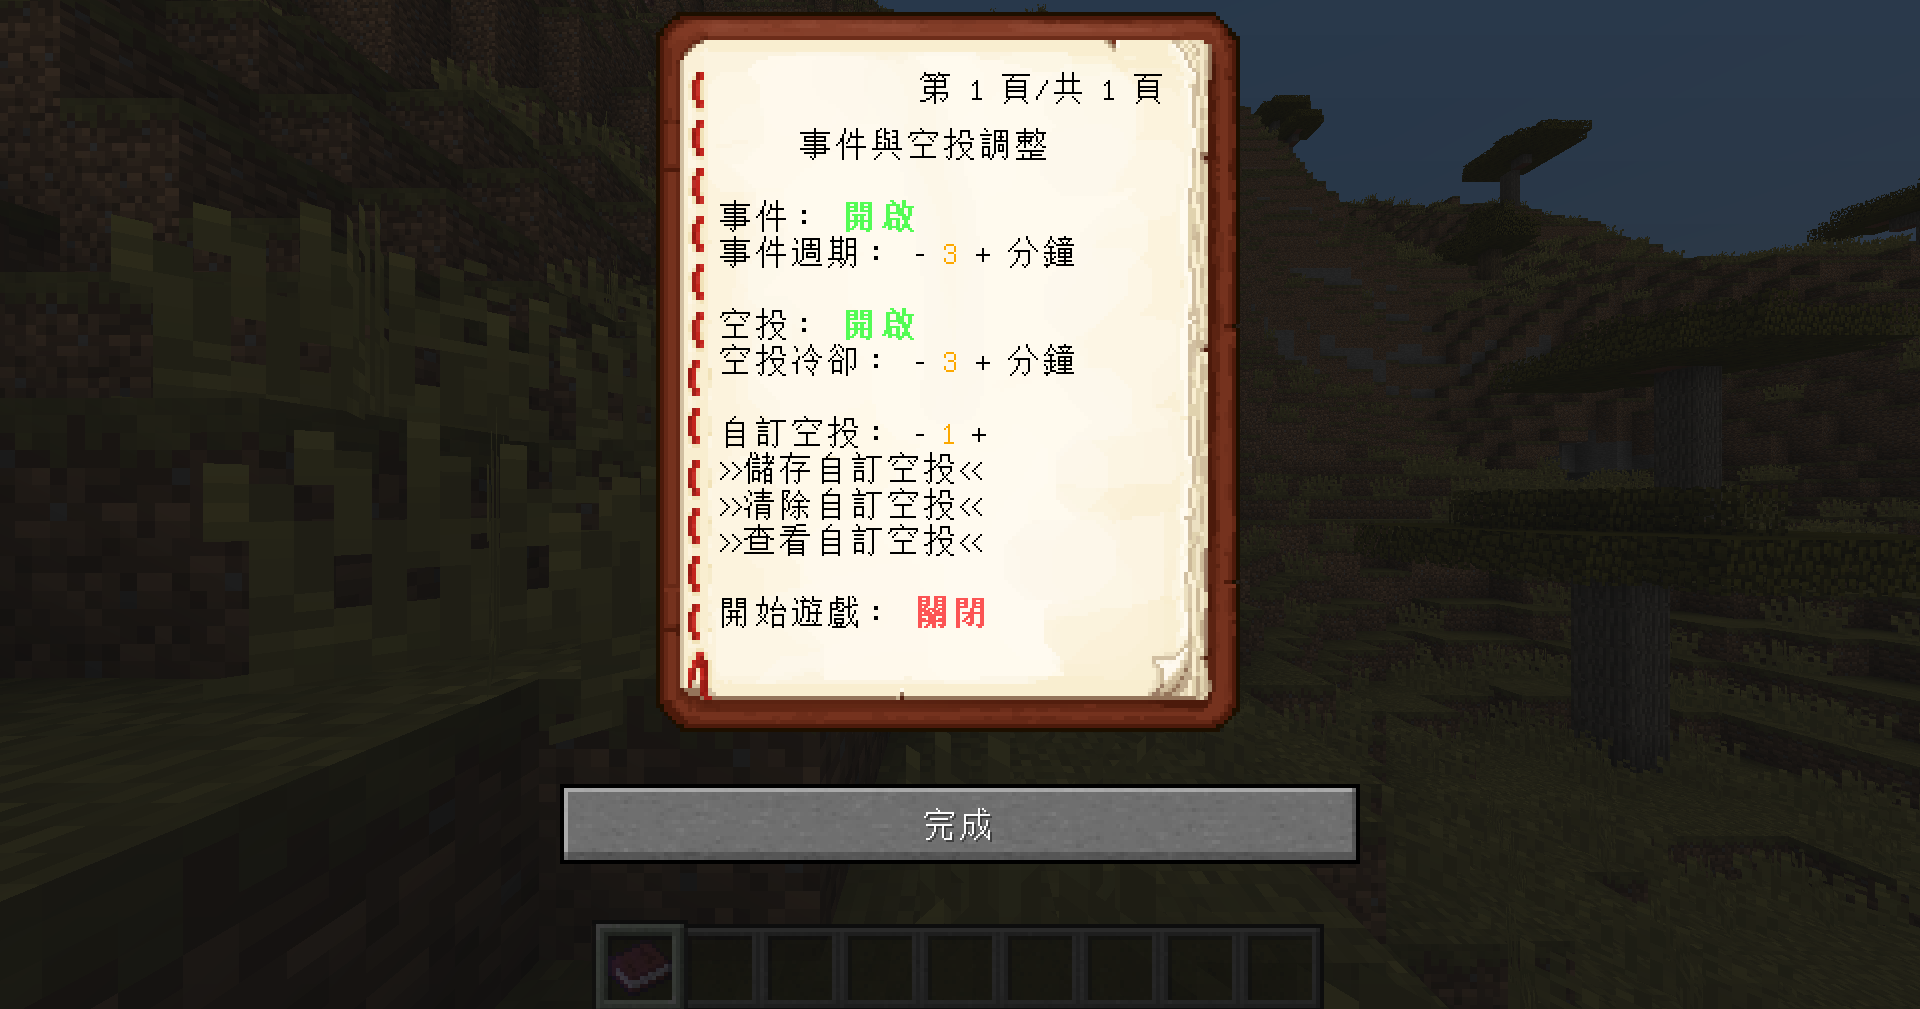
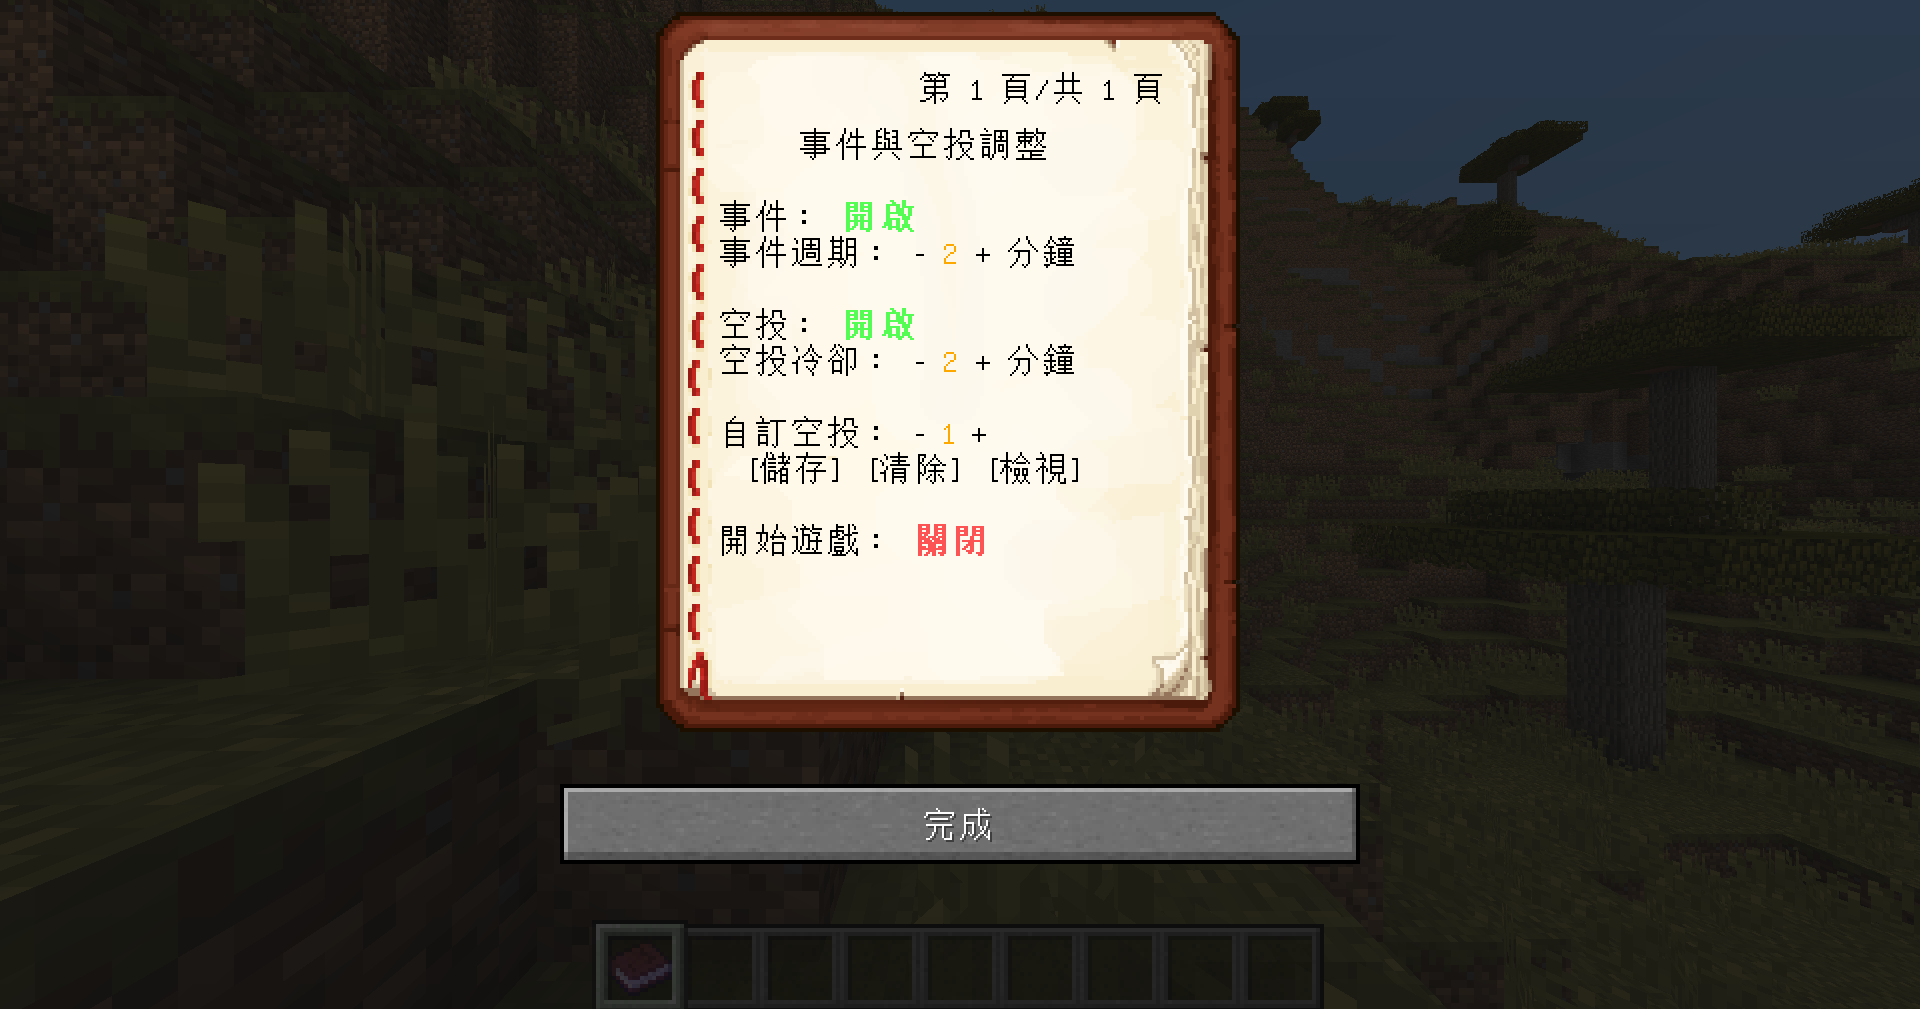
更新README.md
將書的介紹與實際書的改動同步。
加入自訂空投展示以及舊版下載方法。

diff --git a/README.md b/README.md
@@ -7,7 +7,8 @@
 1. <a href="#installation">安裝</a>
 2. <a href="#book">書本</a>
 3. <a href="#introduction">內容</a>
-4. <a href="#links">連結</a>
+4. <a href="#legacy">舊版</a>
+5. <a href="#links">連結</a>
 
 ## <span id="installation">安裝</span>
 
@@ -15,12 +16,16 @@
 
 1. 下載<br>
 	點擊 [GitHub](https://github.com/AlexCai2019/Airdrop) 的 "<> Code ▼" 按鈕，選擇 "Download ZIP"。<br>
-	![Download ZIP](images/installation/download_zip.png)
+	![Download ZIP](images/installation/download_zip.png)<br>
+	或是點擊 [MediaFire](https://www.mediafire.com/file/07vzo8a2t57luey) 的 "DOWNLOAD" 按鈕。<br>
+	![Download](images/installation/download.png)
 2. 解壓縮<br>
+	**如果使用的是MediaFire，則可以跳過這部分。**<br>
 	將下載下來的.zip檔解壓縮，右鍵選擇「解壓縮全部」：<br>
 	![解壓縮全部](images/installation/unzip.png)<br>
 	也可以使用WinRAR的「解壓縮至此」：<br>
-	![解壓縮至此](images/installation/winrar.png)
+	![解壓縮至此](images/installation/winrar.png)<br>
+	**如果使用的是MediaFire，則不需要解壓縮。**
 3. 安裝資料包<br>
 	參考此教學：[教學:安裝資料包](https://zh.minecraft.wiki/w/Tutorial:%E5%AE%89%E8%A3%85%E6%95%B0%E6%8D%AE%E5%8C%85)<br>
 	重新進入遊戲，或是輸入 `/reload` 指令。<br>
@@ -48,24 +53,39 @@
 	重新獲得空投道具的冷卻時間。
 - 自訂空投<br>
 	可以在空投裡使用自訂的空投，有1~4的編號。
-- 儲存自訂空投<br>
-	站在容器(箱子、界伏盒等)上點擊，儲存目前編號的自訂空投。
-- 清除自訂空投<br>
-	清除目前編號的自訂空投。
-- 查看自訂空投<br>
-	查看目前編號的自訂空投。
+	- 儲存<br>
+		站在容器(箱子、界伏盒等)上點擊，儲存目前編號的自訂空投。
+	- 清除<br>
+		清除目前編號的自訂空投。
+	- 檢視<br>
+		檢視目前編號的自訂空投。
 - 開始遊戲<br>
 	啟用或停用整個事件和空投系統。
+
+自訂空投使用展示：<br>
+![儲存與檢視](images/book/custom_showcase.gif)
 
 <a href="#contents">回目錄</a>
 
 ## <span id="introduction">內容</span>
 
 本資料包分為兩大內容：空投與事件。<br>
-每過一段時間，全體玩家會拿到一個空投道具(終界之眼)，<u title="預設右鍵">使用</u>這個空投道具就可以召喚空投。空投最常出現的是物資箱，內含各種包括但不限於木頭、石頭、食物、武器、防具等物資。<br>
+每過一段時間，全體玩家會拿到一個空投道具(終界之眼)，<u title="預設右鍵">使用</u>這個空投道具就可以召喚空投。<br>
+空投最常出現的是物資箱，內含各種包括但不限於木頭、石頭、食物、武器、防具等物資。<br>
 除了物資箱外，另有神秘商人、流髑(搭配UHC Evolve資料包會變成友軍)、雷電、爆裂等特殊空投召喚物。<br>
 透過開箱或與商人交易，可以獲得許多特殊物品，包括丟出去會產生蜘蛛網的雪球、放置就會挖洞的鑽地機等。<br>
 善用空投道具吧！
+
+<a href="#contents">回目錄</a>
+
+## <span id="legacy">舊版</span>
+
+透過 [GitHub](https://github.com/AlexCai2019/Airdrop) 可下載舊版的空投：<br>
+1. 選擇<br>
+	點擊 "main ▼"按鈕，選擇版本。<br>
+	![Branches](images/legacy/branches.png)
+2. 下載<br>
+	進行 <a href="#installation">安裝</a> 章節內的步驟。
 
 <a href="#contents">回目錄</a>
 
